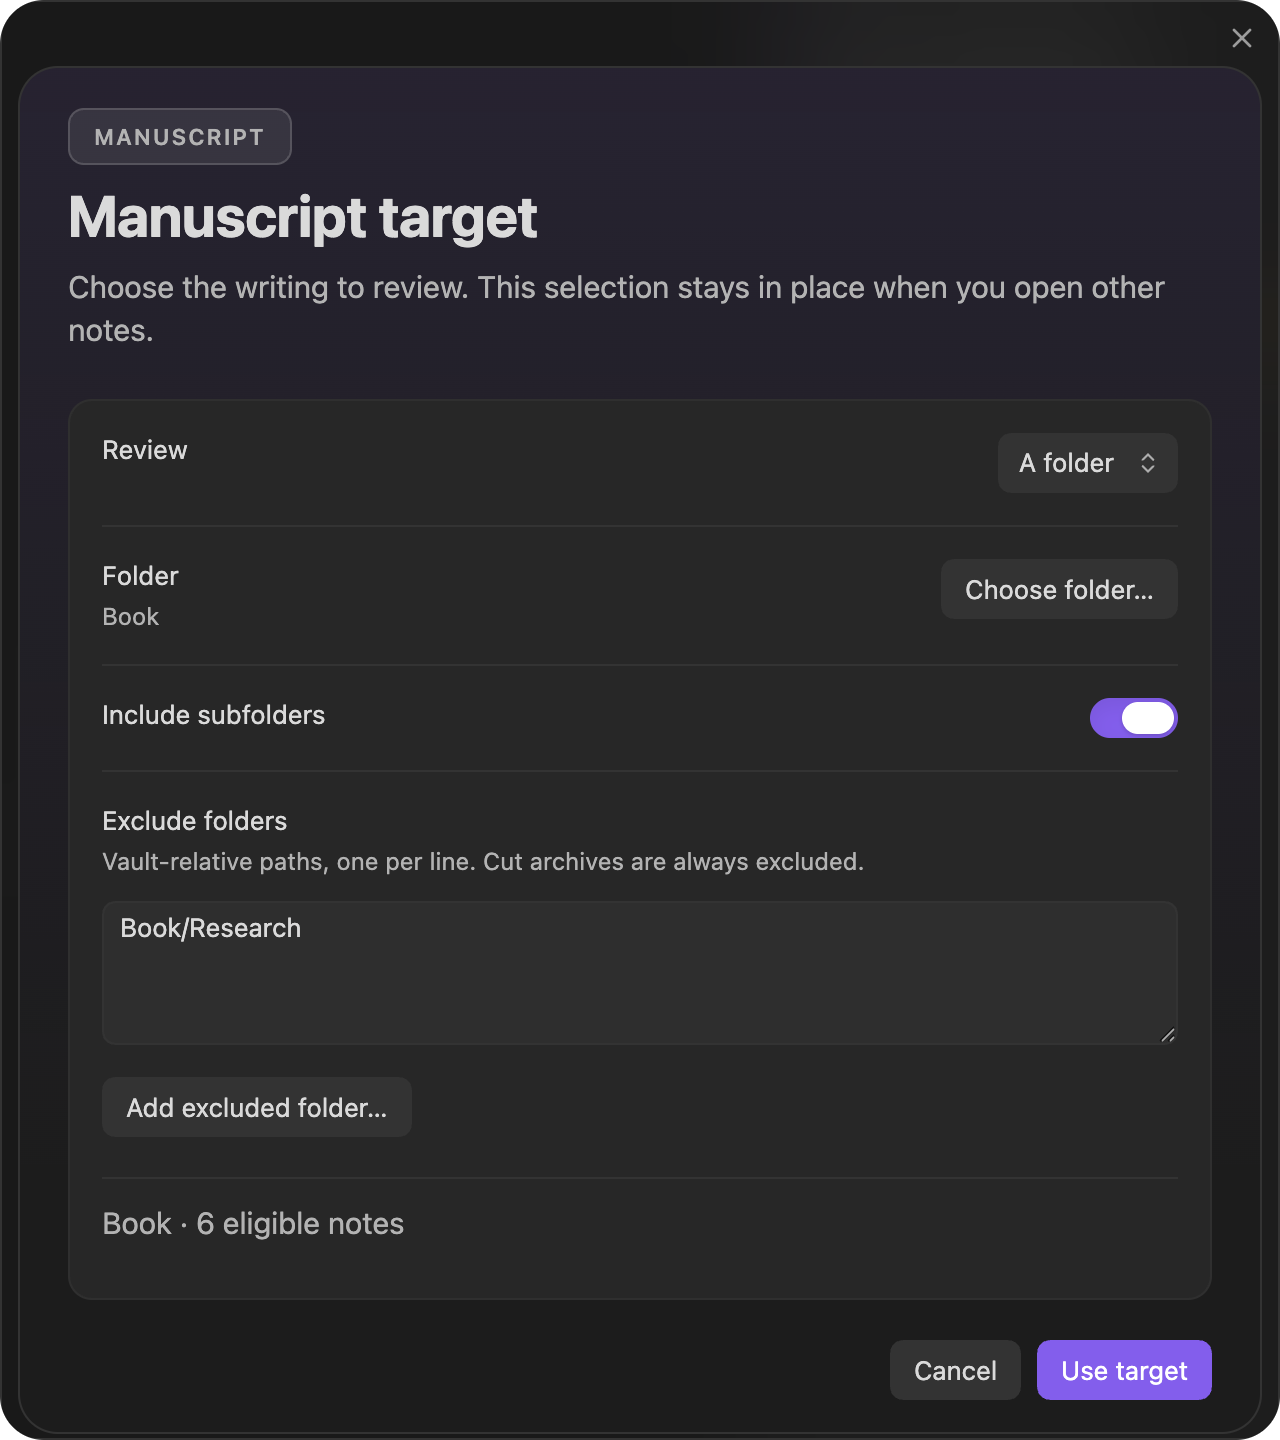
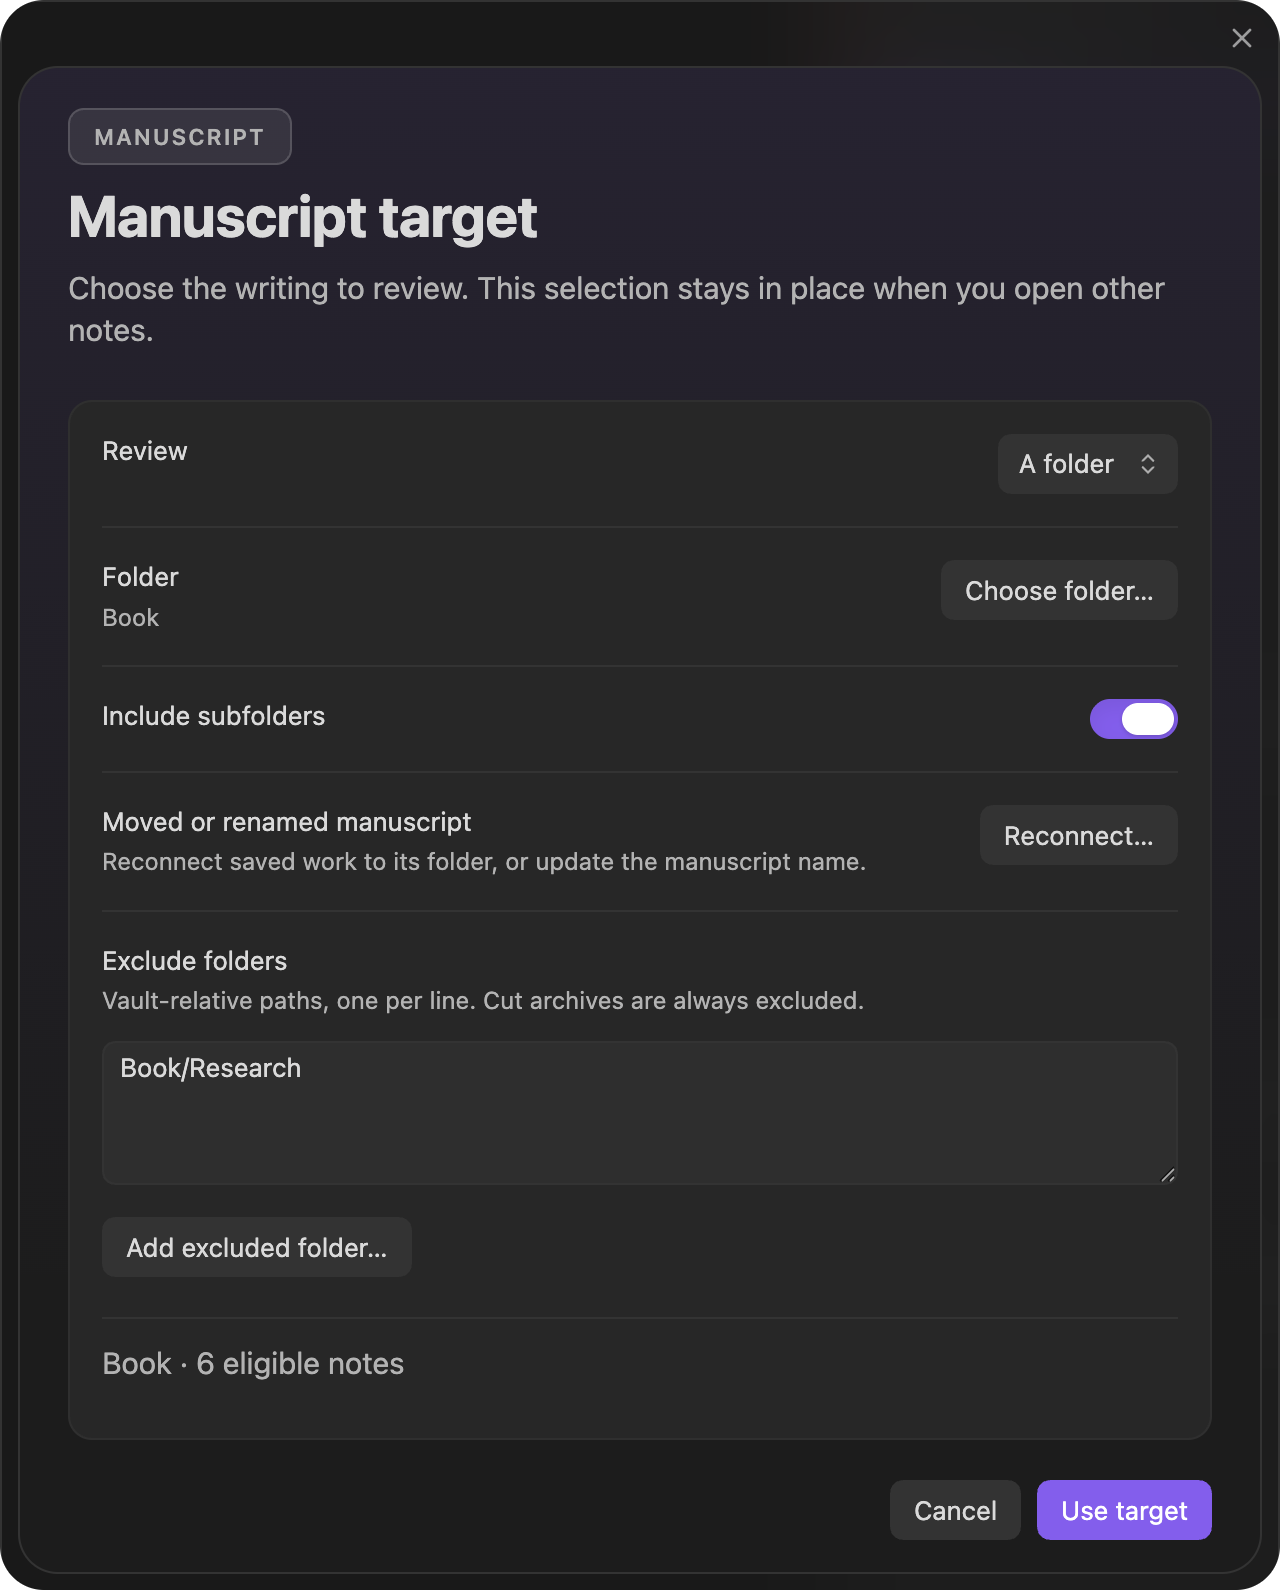
Bring the README and screenshots up to 3.2.0
The README now opens with what 3.2.0 adds: every book on Today, and switching books from Follow Radial Timeline. Today's screenshot is retaken to show each session's book and the new subtitle, and the manuscript target screenshot to show the rename row where it now sits; the alt text and the settings page say so. WIKI-SCREENSHOTS.md records the fixture.

diff --git a/README.md b/README.md
@@ -18,7 +18,9 @@
 
 Editorialist turns outside feedback into a controlled revision workflow inside Obsidian. An editor's Word file with tracked changes and comments comes in directly, with no AI. Other feedback arrives as review batches in Editorialist's format, packaged by an AI: either the AI's own review, or a human editor's or beta reader's notes that an AI has converted. Editorialist imports each batch into the scene notes you are already editing, matches suggestions conservatively against note content, and lets you accept, reject, rewrite, defer, or archive each change. Long-form editorial agendas become Editorialisms, checklists pinned to the passages they concern, and **Editor engagement** schedules all of it, along with your own pending edits, against your deadline while tracking progress across the whole book.
 
-Version **3.1.0** adds a complete workflow that needs no AI. An editor's Word file comes in with its tracked changes and comments, a scene's small copy edits can be accepted as one ticked list, and your replies and your reasons for the changes you kept go back into a copy of their own Word file. [Working with a Copy Editor](https://github.com/EricRhysTaylor/Editorialist/wiki/Working-with-a-Copy-Editor) walks the round trip step by step. It also adds **Today**, which opens on the session to do now, the rest of the day, what is coming up, and your goals under way. Writing goals can count words written in a folder, and engagement documents can carry a word limit. **Editor engagement** keeps an editor’s agreed dates, milestones, tasks, references, and activity history together; **Author planner** gives your own writing goals a vault-wide home, optionally sharing publishing-stage target dates with Radial Timeline.
+Version **3.2.0** brings every book onto **Today**, naming the book on each session, and lets **Follow Radial Timeline** switch between your books from Editorialist.
+
+Version **3.1.0** added a complete workflow that needs no AI. An editor's Word file comes in with its tracked changes and comments, a scene's small copy edits can be accepted as one ticked list, and your replies and your reasons for the changes you kept go back into a copy of their own Word file. [Working with a Copy Editor](https://github.com/EricRhysTaylor/Editorialist/wiki/Working-with-a-Copy-Editor) walks the round trip step by step. It also added **Today**, which opens on the session to do now, the rest of the day, what is coming up, and your goals under way. Writing goals can count words written in a folder, and engagement documents can carry a word limit. **Editor engagement** keeps an editor’s agreed dates, milestones, tasks, references, and activity history together; **Author planner** gives your own writing goals a vault-wide home, optionally sharing publishing-stage target dates with Radial Timeline.
 
 <p align="center"><img src="wiki/images/line-edits-copy-edits.png" alt="Line edits showing an editor's small copy edits in one scene as a ticked list, with Accept 3 ticked and Reject 1 unticked" width="460"> <img src="wiki/images/response-window.png" alt="Response to Morgan Lee window with a reply to a comment, a reason for a change kept as written, and Save in their file" width="460"></p>
 

diff --git a/wiki/Settings-Reference.md b/wiki/Settings-Reference.md
@@ -78,7 +78,7 @@ A card grid, one per contributor:
 
 Use **Change target…** here, or click the manuscript line beneath a panel header.
 
-<p align="center"><img src="images/manuscript-target.png" alt="Manuscript target dialog with A folder selected: the Book folder, Include subfolders on, Book/Research excluded, and a preview of 6 eligible notes" width="520"></p>
+<p align="center"><img src="images/manuscript-target.png" alt="Manuscript target dialog with A folder selected: the Book folder, Include subfolders on, a Reconnect option for a moved or renamed manuscript, Book/Research excluded, and a preview of 6 eligible notes" width="520"></p>
 
 - **Follow Radial Timeline** — use its active book while the plugin is enabled. The list shows your books and which ones have an editor engagement. Choosing another book switches Radial Timeline to it too. If a book's folder is missing, you are asked to choose a target.
 - **A folder** — choose an existing vault folder. Include or skip subfolders and exclude supporting folders by their vault-relative paths. Plain Markdown notes need no `Class: Scene` property.
@@ -184,7 +184,7 @@ That count reaches every cleanup route, including **Clean all scenes**, so a cle
 
 ### Reconnect a moved or renamed manuscript
 
-Open the manuscript target selector and choose **Reconnect…**. It appears when a saved manuscript's folder is missing, and for a folder target. Select its saved association, choose the replacement folder, and review the manuscript name, revision plans, deliveries, tracked notes, and affected Editorialisms before applying. If the missing folder's name matches one Radial Timeline book, that book's folder is filled in for you to review. The original folder must be unavailable when reconnecting to a different folder. To change only a standalone manuscript name, keep the existing folder selected.
+Open the manuscript target selector and choose **Reconnect…**. It appears at the top when a saved manuscript's folder is missing, and below **Include subfolders** for a folder target. Select its saved association, choose the replacement folder, and review the manuscript name, revision plans, deliveries, tracked notes, and affected Editorialisms before applying. If the missing folder's name matches one Radial Timeline book, that book's folder is filled in for you to review. The original folder must be unavailable when reconnecting to a different folder. To change only a standalone manuscript name, keep the existing folder selected.
 
 Folder renames observed inside Obsidian update saved references automatically, including moves of a parent folder. If the destination already has manuscript records or review history, both sets are retained and reconnection is blocked until a different destination is chosen. Editorialisms sharing the old name with another manuscript require explicit selection. Their file locations and agenda bodies stay intact; only the selected book fields change. Radial Timeline book titles are managed in Radial Timeline.
 

diff --git a/wiki/Getting-Started.md b/wiki/Getting-Started.md
@@ -11,7 +11,7 @@ Install from the Obsidian Community Plugins directory:
 
 Choose a manuscript target from the line beneath the panel header: a folder, the current note, the entire vault, or **Follow Radial Timeline**. Folder targets can exclude supporting notes and include or skip subfolders. If you also use [Radial Timeline](Radial-Timeline-Integration), following its active book is optional. **Follow Radial Timeline** lists your books and shows which ones have an editor engagement; choosing another book switches Radial Timeline to it too. The regular review-batch workflow works without it; the active-book pending-edits review depends on Radial Timeline.
 
-<p align="center"><img src="images/manuscript-target.png" alt="Manuscript target dialog with A folder selected: the Book folder, Include subfolders on, Book/Research excluded, and a preview of 6 eligible notes" width="520"></p>
+<p align="center"><img src="images/manuscript-target.png" alt="Manuscript target dialog with A folder selected: the Book folder, Include subfolders on, a Reconnect option for a moved or renamed manuscript, Book/Research excluded, and a preview of 6 eligible notes" width="520"></p>
 
 ## Commands
 

diff --git a/docs/engineering/WIKI-SCREENSHOTS.md b/docs/engineering/WIKI-SCREENSHOTS.md
@@ -250,3 +250,19 @@ Retaken the same day, after the release, from the same vaults and crops:
 - `panel-editor-engagement.png` — Next up now marks the Nov 2 session
   Overdue in red, with a red edge, and the word-limit bar sits under the
   meta line.
+
+## 3.2.0 refresh — November 10, 2026
+
+Captured from main after `2d47246` with the Today subtitle and manuscript
+target row fixes, desktop Obsidian 1.15.0, dark theme, 2x device scale, in a
+rebuilt synthetic `Editorialist Release Demo` vault (Morgan Lee's engagement
+with sessions moved to Nov 9 overdue, Nov 10 and later; the "Draft Book 2"
+word goal, with today's words written through the vault after the plugin
+recorded the opening total). No Author-vault content was used.
+
+- `panel-today.png` — same framing as 3.1.0; the subtitle now reads Your
+  books and goals and each session names its book.
+- `manuscript-target.png` — the folder target with Book/Research excluded,
+  now showing the Moved or renamed manuscript row below Include subfolders;
+  640 × 796 CSS px, rounded at 44 to match the modal's corners. Focus was
+  cleared before capture.

diff --git a/wiki/Home.md b/wiki/Home.md
@@ -41,7 +41,7 @@ Line edits supports a full set of scene-level editorial moves:
 
 Use the view name beside the Ed logo to switch modes. Book-scoped modes use the active-book header and **Import**. Author planner shows **Across your vault** and **Add goal**. Today covers all your books and your writing goals together.
 
-<p align="center"><img src="images/panel-today.png" alt="Today view with the session to do now marked overdue in red, its document's word limit, the next session today, and a word-count goal showing words written today and the daily pace to finish on time" width="460"></p>
+<p align="center"><img src="images/panel-today.png" alt="Today view of your books and goals: the session to do now marked overdue in red with its book and its document's word limit, the next session today, and a word-count goal showing words written today and the daily pace to finish on time" width="460"></p>
 
 | Mode | Use it for |
 |---|---|
